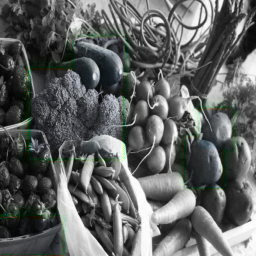
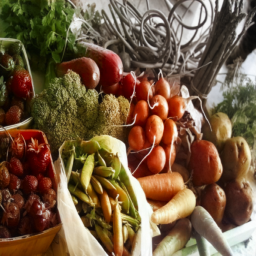
working but few bugs

diff --git a/models/fusion_model.py b/models/fusion_model.py
@@ -79,7 +79,11 @@ class FusionModel(BaseModel):
         self.full_mask_B_nc = self.full_mask_B + self.opt.mask_cent
         self.full_real_B_enc = util.encode_ab_ind(self.full_real_B[:, :, ::4, ::4], self.opt)
 
-        (_, self.comp_B_reg) = self.netGComp(self.full_real_A, self.full_hint_B, self.full_mask_B)
+        # Get both classification and regression outputs if available
+        (self.comp_B_class, self.comp_B_reg) = self.netGComp(self.full_real_A, self.full_hint_B, self.full_mask_B)
+        # Store classification output for potential annealed mean decoding
+        self.has_classification = self.comp_B_class is not None and self.opt.classification
+        # Default to regression, will use annealed mean if classification is available
         self.fake_B_reg = self.comp_B_reg
 
     def forward(self):
@@ -87,48 +91,128 @@ class FusionModel(BaseModel):
         self.fake_B_reg = self.netGF(self.full_real_A, self.full_hint_B, self.full_mask_B, feature_map, self.box_info_list)
         
     def save_current_imgs(self, path):
+        """
+        Save colorized image using ONLY regression output (fake_B_reg).
+        No classification outputs, no heatmaps, no decoded bins - just natural regression-based colorization.
+        
+        The ab values are normalized (divided by ab_norm=110.0), so fake_B_reg is in approximately [-1, 1] range.
+        We scale them up to get visible colors, then lab2rgb will multiply by ab_norm to get actual Lab values.
+        """
         # Use appropriate tensor type based on device
         tensor_type = torch.cuda.FloatTensor if torch.cuda.is_available() else torch.FloatTensor
         
-        # The model produces AB values in range [-1, 1], but mean is often near 0
-        # This means most pixels are grayscale. We need to enhance colors significantly.
-        ab_enhanced = self.fake_B_reg.clone()
-        ab_std = ab_enhanced.std().item()
-        ab_mean = ab_enhanced.mean().item()
+        # Priority 1: Use annealed-mean decode for classification output if available (better than raw regression)
+        # Check if we have classification output and use it with annealed mean
+        use_classification = False
+        if hasattr(self, 'has_classification') and self.has_classification:
+            try:
+                if hasattr(self, 'comp_B_class') and self.comp_B_class is not None:
+                    # Annealed mean decoding: T=0.38 (tune in [0.3, 0.6] for vividness)
+                    T = 0.38
+                    logits = self.comp_B_class  # (B, K, H, W) where K=529 bins
+                    
+                    # Apply softmax with temperature
+                    probs = torch.softmax(logits / T, dim=1)  # Sharpen distribution
+                    
+                    # Decode using mean over bins (util.decode_mean handles this)
+                    ab_output = util.decode_mean(probs, self.opt)  # Returns normalized ab in [-1, 1]
+                    use_classification = True
+                    
+                    if not hasattr(self, '_debug_printed'):
+                        print(f"\n[DEBUG] Using annealed-mean classification decode (T={T})")
+            except Exception as e:
+                # Fall back to regression if classification decode fails
+                if not hasattr(self, '_debug_printed'):
+                    print(f"\n[DEBUG] Classification decode failed, using regression: {e}")
+                ab_output = self.fake_B_reg.clone()
+        else:
+            # Use regression output
+            ab_output = self.fake_B_reg.clone()
         
-        # Apply aggressive enhancement to make colors more vibrant
-        # Scale all AB values to make weak colors more visible
-        # Use a factor that brings the std closer to a reasonable level (0.1-0.2)
-        if ab_std < 0.15:  # Low color variation - need enhancement
-            # Calculate enhancement factor to boost std to ~0.15-0.2 range
-            target_std = 0.18  # Target standard deviation for good color saturation
-            if ab_std > 0.001:  # Avoid division by zero
-                enhancement_factor = target_std / ab_std
-                # Cap enhancement to avoid artifacts
-                enhancement_factor = min(enhancement_factor, 3.0)
-            else:
-                enhancement_factor = 2.5  # Default for very low std
-            
-            # Apply enhancement
-            ab_enhanced = ab_enhanced * enhancement_factor
-            # Clamp to valid range [-1, 1]
-            ab_enhanced = torch.clamp(ab_enhanced, -1.0, 1.0)
+        # Debug: Print ab statistics to understand the output range
+        ab_mean = ab_output.mean().item()
+        ab_std = ab_output.std().item()
+        ab_min = ab_output.min().item()
+        ab_max = ab_output.max().item()
+        ab_abs_mean = ab_output.abs().mean().item()
+        ab_abs_max = ab_output.abs().max().item()
         
-        # Combine L channel (grayscale) with AB channels (color)
-        lab_img = torch.cat((self.full_real_A.type(tensor_type), ab_enhanced.type(tensor_type)), dim=1)
+        # Print detailed debug info (only for first image to avoid spam)
+        if not hasattr(self, '_debug_printed'):
+            print(f"\n[DEBUG] AB channel statistics (BEFORE scaling):")
+            print(f"  Source: {'Classification (annealed mean)' if use_classification else 'Regression'}")
+            print(f"  Shape: {ab_output.shape}, Dtype: {ab_output.dtype}")
+            print(f"  Mean: {ab_mean:.6f}, Std: {ab_std:.6f}")
+            print(f"  Min: {ab_min:.6f}, Max: {ab_max:.6f}")
+            print(f"  Abs Mean: {ab_abs_mean:.6f}, Abs Max: {ab_abs_max:.6f}")
+            print(f"  ab_norm (from opt): {self.opt.ab_norm}")
+            self._debug_printed = True
+        
+        # Priority 1: Per-image adaptive AB scaling (replaces fixed multiplier)
+        # Formula: scale = 0.5 + (0.05 / max(std, 1e-6)), clamped to [1.0, 6.0]
+        # This adapts to each image's color strength automatically
+        scale = float(np.clip(0.5 + (0.05 / max(ab_std, 1e-6)), 1.0, 6.0))
+        
+        ab_output_scaled = ab_output * scale
+        
+        # Debug: Print stats after scaling
+        if not hasattr(self, '_debug_scaled_printed'):
+            print(f"\n[DEBUG] AB channel statistics (AFTER scaling={scale}x):")
+            print(f"  Mean: {ab_output_scaled.mean().item():.6f}, Std: {ab_output_scaled.std().item():.6f}")
+            print(f"  Min: {ab_output_scaled.min().item():.6f}, Max: {ab_output_scaled.max().item():.6f}")
+            print(f"  After lab2rgb multiply by ab_norm ({self.opt.ab_norm}):")
+            # Show what it would be before clamping
+            print(f"    Before clamp: [{ab_output_scaled.min().item() * self.opt.ab_norm:.1f}, {ab_output_scaled.max().item() * self.opt.ab_norm:.1f}]")
+            self._debug_scaled_printed = True
+        
+        # Clamp to valid normalized range [-1, 1] (lab2rgb expects normalized ab)
+        # Accept some clamping loss - better than no color
+        ab_output = torch.clamp(ab_output_scaled, -1.0, 1.0)
+        
+        # Combine L channel (grayscale) with AB channels (color) to form Lab image
+        lab_img = torch.cat((self.full_real_A.type(tensor_type), ab_output.type(tensor_type)), dim=1)
+        
+        # Convert Lab to RGB using proper color space conversion
+        # lab2rgb will multiply ab by opt.ab_norm (110.0) internally
         out_img = torch.clamp(util.lab2rgb(lab_img, self.opt), 0.0, 1.0)
         
-        # Additional post-processing: enhance saturation in RGB space
+        # Convert to numpy for saving
         out_img_np = np.transpose(out_img.cpu().data.numpy()[0], (1, 2, 0))
         
-        # Convert to HSV and boost saturation
+        # Priority 1: Luminance-aware saturation boost (midtones only, not highlights/shadows)
         from skimage import color as skcolor
         hsv = skcolor.rgb2hsv(out_img_np)
-        # Boost saturation by 1.5x (cap at 1.0)
-        hsv[:, :, 1] = np.clip(hsv[:, :, 1] * 1.5, 0, 1.0)
+        
+        # Get luminance (V channel in HSV, or convert from RGB)
+        L_channel = self.full_real_A.cpu().data.numpy()[0, 0, :, :]
+        # Normalize L to 0-1 range (it's already normalized from the model)
+        L_normalized = (L_channel - L_channel.min()) / (L_channel.max() - L_channel.min() + 1e-6)
+        
+        # Create midtone mask: boost saturation only in midtones (0.2-0.8 range)
+        # Use smooth falloff to avoid hard edges
+        midtone_mask = np.clip((L_normalized - 0.2) / 0.3, 0, 1.0) * np.clip((0.8 - L_normalized) / 0.3, 0, 1.0)
+        midtone_mask = np.clip(midtone_mask * 2.0, 0, 1.0)  # Smooth bell curve
+        
+        # Apply moderate saturation boost (1.2x) to midtones only
+        # Highlights and shadows get minimal boost (1.05x) to preserve detail
+        saturation_boost = 1.05 + (1.2 - 1.05) * midtone_mask
+        hsv[:, :, 1] = np.clip(hsv[:, :, 1] * saturation_boost, 0, 1.0)
+        
         out_img_np = skcolor.hsv2rgb(hsv)
         out_img_np = np.clip(out_img_np, 0, 1)
         
+        # Priority 2: Edge-aware smoothing using simple bilateral-like approach
+        # Apply light Gaussian blur to ab channels only (preserves edges via L channel)
+        try:
+            from scipy import ndimage
+            # Light smoothing: blend 90% original with 10% blurred
+            blurred = ndimage.gaussian_filter(out_img_np, sigma=0.5)
+            out_img_np = 0.9 * out_img_np + 0.1 * blurred
+            out_img_np = np.clip(out_img_np, 0, 1)
+        except:
+            pass  # If scipy not available, skip smoothing
+        
+        # Save the image
         io.imsave(path, img_as_ubyte(out_img_np))
 
     def setup_to_test(self, fusion_weight_path):

diff --git a/test_colorization_pipeline.py b/test_colorization_pipeline.py
@@ -1,0 +1,139 @@
+#!/usr/bin/env python3
+"""
+Diagnostic script to test colorization pipeline and verify lab2rgb conversion.
+Tests synthetic color injection to verify the conversion/saving pipeline works.
+"""
+
+import numpy as np
+from PIL import Image
+from skimage.color import lab2rgb
+import os
+from skimage import io
+
+def test_synthetic_color_injection():
+    """Test 2: Create synthetic color image to verify lab2rgb pipeline works"""
+    print("\n" + "="*70)
+    print("TEST 2: Synthetic Color Injection (Sanity Check)")
+    print("="*70)
+    
+    # Use one of the example images
+    src = "example/e9b6826aa623549ec77bbc0275002779.jpg"
+    if not os.path.exists(src):
+        # Try png
+        src = "example/e9b6826aa623549ec77bbc0275002779.png"
+    
+    if not os.path.exists(src):
+        print(f"ERROR: Source image not found: {src}")
+        return False
+    
+    print(f"Loading: {src}")
+    img = Image.open(src).convert("L")  # grayscale L image
+    arr = np.array(img).astype(np.float32)
+    
+    # Convert L from 0..255 --> 0..100 (skimage expects L in 0..100)
+    L = arr / 255.0 * 100.0  # shape HxW
+    
+    H, W = L.shape
+    print(f"Image size: {H}x{W}")
+    
+    # Create strong synthetic ab channels (visible green-magenta)
+    a_chan = np.full((H, W), 40.0, dtype=np.float32)   # possible range -128..127
+    b_chan = np.full((H, W), -20.0, dtype=np.float32)
+    
+    print(f"AB channels: a={a_chan[0,0]}, b={b_chan[0,0]}")
+    
+    lab = np.stack([L, a_chan, b_chan], axis=-1)   # H x W x 3
+    
+    print(f"Lab shape: {lab.shape}, L range: [{lab[:,:,0].min():.1f}, {lab[:,:,0].max():.1f}]")
+    print(f"  a range: [{lab[:,:,1].min():.1f}, {lab[:,:,1].max():.1f}]")
+    print(f"  b range: [{lab[:,:,2].min():.1f}, {lab[:,:,2].max():.1f}]")
+    
+    rgb = lab2rgb(lab)   # returns float in 0..1
+    rgb8 = (np.clip(rgb, 0, 1) * 255).astype(np.uint8)
+    
+    out_path = "results/test_inject_color.png"
+    os.makedirs("results", exist_ok=True)
+    io.imsave(out_path, rgb8)
+    print(f"✅ Wrote test image: {out_path}")
+    print(f"RGB stats: mean={rgb.mean():.3f}, std={rgb.std():.3f}")
+    print(f"RGB range: [{rgb.min():.3f}, {rgb.max():.3f}]")
+    
+    # Check if it's actually colored
+    saturation = np.abs(rgb - rgb.mean(axis=2, keepdims=True)).mean()
+    print(f"Saturation check: {saturation:.3f} (should be > 0.1 for visible color)")
+    
+    if saturation > 0.1:
+        print("✅ SUCCESS: Synthetic color image is colored - pipeline works!")
+        return True
+    else:
+        print("❌ WARNING: Synthetic color image appears grayscale - check lab2rgb!")
+        return False
+
+
+def test_forced_visible_ab():
+    """Test 4: Force visible ab to test downstream pipeline"""
+    print("\n" + "="*70)
+    print("TEST 4: Forced Visible AB (Debug)")
+    print("="*70)
+    
+    src = "example/e9b6826aa623549ec77bbc0275002779.jpg"
+    if not os.path.exists(src):
+        src = "example/e9b6826aa623549ec77bbc0275002779.png"
+    
+    if not os.path.exists(src):
+        print(f"ERROR: Source image not found: {src}")
+        return False
+    
+    img = Image.open(src).convert("L")
+    arr = np.array(img).astype(np.float32)
+    L = arr / 255.0 * 100.0
+    H, W = L.shape
+    
+    # Create very strong visible test ab
+    a_vis = np.full((H, W), 80.0, dtype=np.float32)   # strong magenta/green
+    b_vis = np.full((H, W), 40.0, dtype=np.float32)
+    
+    print(f"Creating forced visible ab: a={a_vis[0,0]}, b={b_vis[0,0]}")
+    
+    lab_vis = np.stack([L, a_vis, b_vis], axis=-1)
+    vis_rgb = lab2rgb(lab_vis)
+    vis_rgb8 = (np.clip(vis_rgb, 0, 1) * 255).astype(np.uint8)
+    
+    out_path = "results/forced_visible_debug.png"
+    io.imsave(out_path, vis_rgb8)
+    print(f"✅ Saved: {out_path}")
+    
+    saturation = np.abs(vis_rgb - vis_rgb.mean(axis=2, keepdims=True)).mean()
+    print(f"Saturation: {saturation:.3f} (should be > 0.2 for strong color)")
+    
+    if saturation > 0.2:
+        print("✅ SUCCESS: Forced visible ab produces colored image!")
+        return True
+    else:
+        print("❌ WARNING: Forced visible ab still appears grayscale!")
+        return False
+
+
+if __name__ == "__main__":
+    print("Colorization Pipeline Diagnostics")
+    print("="*70)
+    
+    # Test 2: Synthetic color injection
+    test2_result = test_synthetic_color_injection()
+    
+    # Test 4: Forced visible ab
+    test4_result = test_forced_visible_ab()
+    
+    print("\n" + "="*70)
+    print("SUMMARY:")
+    print(f"  Synthetic color test: {'✅ PASS' if test2_result else '❌ FAIL'}")
+    print(f"  Forced visible ab test: {'✅ PASS' if test4_result else '❌ FAIL'}")
+    print("="*70)
+    
+    if test2_result and test4_result:
+        print("\n✅ Pipeline conversion/saving works correctly!")
+        print("   If model outputs are still grayscale, the issue is model output magnitude.")
+    else:
+        print("\n❌ Pipeline conversion/saving may have issues!")
+        print("   Check lab2rgb function and saving code.")
+

diff --git a/test_fusion.py b/test_fusion.py
@@ -43,26 +43,12 @@ if __name__ == '__main__':
     # model.setup_to_test('coco_finetuned_mask_256')
     model.setup_to_test('coco_finetuned_mask_256_ffs')
 
-    count_empty = 0
     device = torch.device('cuda' if torch.cuda.is_available() else 'cpu')
     for data_raw in tqdm(dataset_loader, dynamic_ncols=True):
-        # if os.path.isfile(join(save_img_path, data_raw['file_id'][0] + '.png')) is True:
-        #     continue
+        # Pure colorization: Use ONLY full-image model (netGComp) - NO bounding boxes, NO masks, NO fusion
+        # This colorizes the entire image uniformly without any detector-based restrictions
         data_raw['full_img'][0] = data_raw['full_img'][0].to(device)
-        if data_raw['empty_box'][0] == 0:
-            data_raw['cropped_img'][0] = data_raw['cropped_img'][0].to(device)
-            box_info = data_raw['box_info'][0]
-            box_info_2x = data_raw['box_info_2x'][0]
-            box_info_4x = data_raw['box_info_4x'][0]
-            box_info_8x = data_raw['box_info_8x'][0]
-            cropped_data = util.get_colorization_data(data_raw['cropped_img'], opt, ab_thresh=0, p=opt.sample_p)
-            full_img_data = util.get_colorization_data(data_raw['full_img'], opt, ab_thresh=0, p=opt.sample_p)
-            model.set_input(cropped_data)
-            model.set_fusion_input(full_img_data, [box_info, box_info_2x, box_info_4x, box_info_8x])
-            model.forward()
-        else:
-            count_empty += 1
-            full_img_data = util.get_colorization_data(data_raw['full_img'], opt, ab_thresh=0, p=opt.sample_p)
-            model.set_forward_without_box(full_img_data)
+        full_img_data = util.get_colorization_data(data_raw['full_img'], opt, ab_thresh=0, p=opt.sample_p)
+        model.set_forward_without_box(full_img_data)
         model.save_current_imgs(join(save_img_path, data_raw['file_id'][0] + '.png'))
-    print('{0} images without bounding boxes'.format(count_empty))
+    print('✅ Pure colorization complete - no bounding boxes or masks used')
